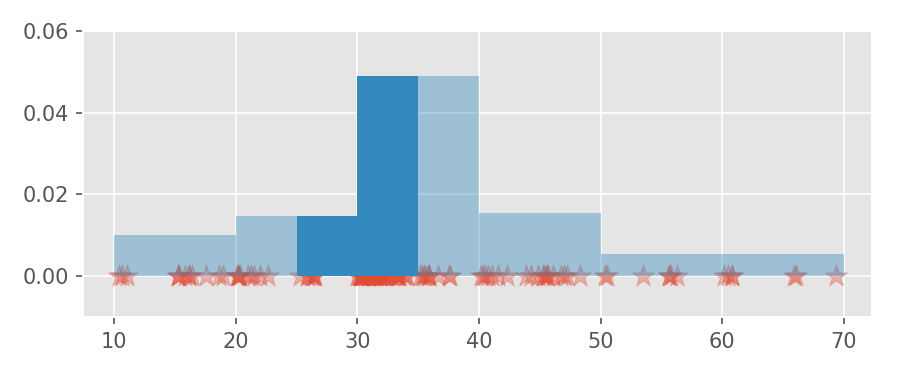
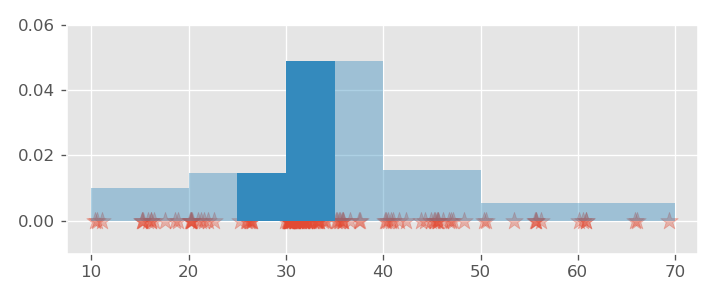
More corrections

diff --git a/static/histograms-and-kdes/meditation.py b/static/histograms-and-kdes/meditation.py
@@ -8,6 +8,8 @@ import os
 import pathlib
 
 plt.style.use('ggplot')
+DPI = 120
+FIGURE_SIZE = (6.0, 2.5)
 
 
 def to_abs(file_name: str):
@@ -24,10 +26,9 @@ def get_histogram_data(data: Sequence, interval_len: int):
 
 def histograms(df: pandas.DataFrame):
     data = df.values.reshape((-1, )).tolist()
-    fs = (6, 2.5)
 
-    df.plot.area(figsize=fs, alpha=0.7)
-    plt.savefig(to_abs('meditation.png'))
+    df.plot.area(figsize=FIGURE_SIZE, alpha=0.7)
+    plt.savefig(to_abs('meditation.png'), dpi=DPI)
 
     plt.figure(figsize=(6, 1.5))
     plt.scatter(x=df.iloc[:, 0], y=numpy.repeat(0.0, len(df)) , marker='*',
@@ -35,7 +36,7 @@ def histograms(df: pandas.DataFrame):
     ax = plt.gca()
     ax.get_yaxis().set_ticks([])
     plt.tight_layout()
-    plt.savefig(to_abs('x-axis.png'), dpi=150)
+    plt.savefig(to_abs('x-axis.png'), dpi=DPI)
 
     plt.figure(figsize=(6, 1.5))
     plt.scatter(x=df.iloc[:, 0], y=numpy.repeat(0.0, len(df)) , marker='*',
@@ -46,12 +47,12 @@ def histograms(df: pandas.DataFrame):
     ax.add_patch(matplotlib.patches.Rectangle((10.0, 0.0), 10.0, range_count/1290.0, alpha=0.4))
     # ax.get_yaxis().set_ticks([])
     plt.tight_layout()
-    plt.savefig(to_abs('histogram-construction-a.png'), dpi=150)
+    plt.savefig(to_abs('histogram-construction-a.png'), dpi=DPI)
 
     interval_len = 10.0
     histogram_data = get_histogram_data(data, interval_len)
 
-    plt.figure(figsize=fs)
+    plt.figure(figsize=FIGURE_SIZE)
     plt.scatter(x=df.iloc[:, 0], y=numpy.repeat(0.0, len(df)), marker='*',
                 alpha=0.35, s=matplotlib.rcParams['lines.markersize'] * 20)
     plt.ylim((-0.01, 0.06))
@@ -59,11 +60,11 @@ def histograms(df: pandas.DataFrame):
     for x0, h in histogram_data.items():
         ax.add_patch(matplotlib.patches.Rectangle((x0, 0.0), interval_len, h, alpha=0.4))
     plt.tight_layout()
-    plt.savefig(to_abs('histogram-construction-b.png'), dpi=150)
+    plt.savefig(to_abs('histogram-construction-b.png'), dpi=DPI)
 
     ax.add_patch(matplotlib.patches.Rectangle((25.0, 0.0), 10.0, histogram_data[20], alpha=1.0))
     ax.add_patch(matplotlib.patches.Rectangle((30.0, 0.0), 5.0, histogram_data[30], alpha=1.0))
-    plt.savefig(to_abs('histogram-construction-c.png'), dpi=150)
+    plt.savefig(to_abs('histogram-construction-c.png'), dpi=DPI)
 
     print(5.0 * (histogram_data[20] + histogram_data[30]))
     print(len(list(x for x in data if 50.0 <= x))/len(data))
@@ -71,7 +72,7 @@ def histograms(df: pandas.DataFrame):
     interval_len = 1.0
     histogram_data = get_histogram_data(data, interval_len)
 
-    plt.figure(figsize=fs)
+    plt.figure(figsize=FIGURE_SIZE)
     plt.scatter(x=df.iloc[:, 0], y=numpy.repeat(0.0, len(df)), marker='*',
                 alpha=0.35, s=matplotlib.rcParams['lines.markersize'] * 5)
     plt.ylim((-0.01, 0.2))
@@ -79,7 +80,7 @@ def histograms(df: pandas.DataFrame):
     for x0, h in histogram_data.items():
         ax.add_patch(matplotlib.patches.Rectangle((x0, 0.0), interval_len, h, alpha=0.4))
     plt.tight_layout()
-    plt.savefig(to_abs('histogram-construction-d.png'), dpi=150)
+    plt.savefig(to_abs('histogram-construction-d.png'), dpi=DPI)
 
     plt.close('all')
 
@@ -102,45 +103,44 @@ def kde(x: numpy.ndarray, data, h: float = 1.0, kernel_func = epanechnikov_kerne
 def kdes(df: pandas.DataFrame):
     data = df.values.reshape((-1, )).tolist()
     bandwidth = 1.06*df.std().values[0]/numpy.power(len(df), 1.0/5.0)
-    fs = (6, 2)
 
     x = numpy.arange(-1.5, 1.5, 0.01)
-    fig, ax = plt.subplots(1, 1, figsize=fs)
+    fig, ax = plt.subplots(1, 1, figsize=FIGURE_SIZE)
     ax.fill_between(x, 0.0, epanechnikov_kernel(x), alpha=0.4, facecolor='r')
-    plt.savefig(to_abs('epanechnikov_kernel_a.png'))
+    plt.savefig(to_abs('epanechnikov_kernel_a.png'), dpi=DPI)
 
-    fig, ax = plt.subplots(1, 1, figsize=fs)
+    fig, ax = plt.subplots(1, 1, figsize=FIGURE_SIZE)
     ax.fill_between(x, 0.0, box_kernel(x), alpha=0.4, facecolor='r')
     plt.savefig(to_abs('box_kernel.png'))
 
     x = numpy.arange(-0.5, 5.0, 0.01)
-    fig, ax = plt.subplots(1, 1, figsize=fs)
+    fig, ax = plt.subplots(1, 1, figsize=FIGURE_SIZE)
     ax.fill_between(x, 0.0, epanechnikov_kernel(x - 1.0), alpha=0.4, facecolor='r')
     ax.fill_between(x, 0.0, epanechnikov_kernel(x - 2.0), alpha=0.4, facecolor='r')
-    plt.savefig(to_abs('epanechnikov_kernel_b.png'))
+    plt.savefig(to_abs('epanechnikov_kernel_b.png'), dpi=DPI)
 
     x = numpy.arange(-3.5, 3.5, 0.01)
-    fig, ax = plt.subplots(1, 1, figsize=fs)
+    fig, ax = plt.subplots(1, 1, figsize=FIGURE_SIZE)
     ax.fill_between(x, 0.0, epanechnikov_kernel(x), alpha=0.4, facecolor='r')
     ax.fill_between(x, 0.0, epanechnikov_kernel(x, 2.0), alpha=0.4, facecolor='r')
     ax.fill_between(x, 0.0, epanechnikov_kernel(x, 3.0), alpha=0.4, facecolor='r')
-    plt.savefig(to_abs('epanechnikov_kernel_c.png'))
+    plt.savefig(to_abs('epanechnikov_kernel_c.png'), dpi=DPI)
 
     x0 = 50.389
     x = numpy.arange(48.0, 53.0, 0.01)
-    fig, ax = plt.subplots(1, 1, figsize=fs)
+    fig, ax = plt.subplots(1, 1, figsize=FIGURE_SIZE)
     ax.fill_between(x, 0.0, epanechnikov_kernel(x - x0), alpha=0.5, facecolor='r')
-    plt.savefig(to_abs('kde_a.png'))
+    plt.savefig(to_abs('kde_a.png'), dpi=DPI)
 
     x = numpy.arange(0.0, 80.0, 0.01)
-    fig, ax = plt.subplots(1, 1, figsize=fs)
+    fig, ax = plt.subplots(1, 1, figsize=FIGURE_SIZE)
     ax.fill_between(x, 0.0, kde(x, data, bandwidth), alpha=0.5, facecolor='r')
-    plt.savefig(to_abs('kde_b.png'))
+    plt.savefig(to_abs('kde_b.png'), dpi=DPI)
 
     x = numpy.arange(0.0, 80.0, 0.01)
-    fig, ax = plt.subplots(1, 1, figsize=fs)
+    fig, ax = plt.subplots(1, 1, figsize=FIGURE_SIZE)
     ax.fill_between(x, 0.0, kde(x, data, bandwidth, box_kernel), alpha=0.5, facecolor='r')
-    plt.savefig(to_abs('kde_c.png'))
+    plt.savefig(to_abs('kde_c.png'), dpi=DPI)
 
 if __name__ == '__main__':
     df = pandas.read_csv(to_abs('meditation.csv'), header=0)

diff --git a/content/page/histograms-and-kdes.md b/content/page/histograms-and-kdes.md
@@ -17,7 +17,7 @@ useful to draw insights from the data.
 To illustrate the concepts, I will use a small data set I collected over 
 last few months. Almost two yeast ago I started meditating regularly, and,
 at some point, I added the daily meditation session duration to the list
-of data I collect.   
+of observations I collect.   
 
 {{< figure src="/histograms-and-kdes/meditation.png" >}}
 
@@ -32,13 +32,13 @@ the session durations in minutes.
 I would like to know more about the distribution of this data. For example, how
 likely is it, for a randomly chosen session to last between 25 and 35 minutes?
 
-For starters, I can just sort the data points and plot the values.
+For starters, we can just sort the data points and plot the values.
 
 {{< figure src="/histograms-and-kdes/x-axis.png" >}}
 
 The problem with this visualization is that many values are very close and
 plotted on top of each other: There is no way to tell how many 30 minute sessions
-do I have in the data set. An idea, that leads to the construction of 
+do we have in the data set. An idea, that leads to the construction of 
 a histogram, is to use the vertical dimension of the plot to distinguish between
 regions with different data density. 
 
@@ -46,7 +46,7 @@ Let's divide the data range into intervals:
 
     [10, 20), [20, 30), [30, 40), [40, 50), [50, 60), [60, 70)
 
-For each data point in the first interval `[10, 20)` I put a rectangle
+For each data point in the first interval `[10, 20)` we put a rectangle
 with area `1/129` (approx. `0.007`) and width 10 on the interval `[10, 20)`. 
 It's like stacking Jenga bricks. Since we have 13 data points in the 
 interval `[10, 20)` the 13 stacked rectangles have the height of approx.
@@ -59,11 +59,11 @@ Let's repeat this for all the remaining intervals.
 {{< figure src="/histograms-and-kdes/histogram-construction-b.png" >}}
 
 Since the total area of all the rectangles is one (we have 129 data points),
-the upper boundary the stacked rectanges is a probability density function.
-Densities are handy because they can be used to calculate probabilities.  For
-example, the probability that a randomly chosen session will last between 25
-and 35 minutes is the area between the density function (graph) and the x-axis
-in the interval `[25, 35]`.
+the curve marking the upper boundary the stacked rectangles is a
+probability density function.  Densities are handy because they can be used to
+calculate probabilities.  For example, the probability that a randomly chosen
+session will last between 25 and 35 minutes is the area between the density
+function (graph) and the x-axis in the interval `[25, 35]`.
 
 {{< figure src="/histograms-and-kdes/histogram-construction-c.png" >}}
 
@@ -79,11 +79,11 @@ For example, from the histogram plot we can infer that `[50, 60)` and
 of a session duration between 50 and 70 minutes equals approximately
 `20*0.005 = 0.1`. The exact calculation yields the probability of `0.1085`.
 
-#### Choice of the interval subdivisions
+#### Choice of the interval lengths
 
-The choice of the intervals (or "bins") is arbitrary. We could also partition
+The choice of the intervals (aka "bins") is arbitrary. We could also partition
 the data range into intervals with length 1, or, use intervals with varying
-length (this is uncommon). Using a small interval length makes the histogram
+length (this is not so common). Using a small interval length makes the histogram
 look more wiggly.
 
 {{< figure src="/histograms-and-kdes/histogram-construction-d.png" >}}
@@ -94,14 +94,14 @@ eye by optimizing some score.
 
 #### Kernel Density Estimators
 
-However we choose the subdivision interval length, a histogram will always look
+However we choose the interval length, a histogram will always look
 more or less wiggly, because it is a stack of rectangles (think Jenga bricks).
 
 Sometimes, we are interested in calculating a smooth estimate of the density. For
 that we can modify our method slightly. The histogram algorithm maps each data
 point to a rectangle with a fixed area and places that rectangle "near" that
-data point. What if instead using rectangles, we could put a "pile of sand"
-on each data point and calculate how this sand stacks.
+data point. What if, instead using rectangles, we could put a "pile of sand"
+on each data point and see how this sand stacks.
 
 For example, the first observation in the data set is `50.389`. Let's put
 a nice pile of sand on it:
@@ -113,10 +113,10 @@ the Epanechnikov kernel.
 
 $$K(x) = \frac{3}{4}(1 - x^2),\text{ for } |x| < 1$$
 
-The Epanechnikov kernel is a probability density function, which means, it is
-positive or equal zero and the area under its graph is equal to one. The function $$K$$ is
-centered at zero, but we can move it around by subtracting a constant from its
-argument $$x$$. 
+The Epanechnikov kernel is a _probability density function_, which means that,
+it is positive or equal zero and the area under its graph is equal to one. The
+function $$K$$ is centered at zero, but we can move it around by subtracting a
+constant from its argument $$x$$. 
 
 {{< figure src="/histograms-and-kdes/epanechnikov_kernel_b.png" >}}
 
@@ -136,7 +136,7 @@ The parameter $$h$$ is often called the _bandwidth_.
 The above plot shows the graphs of $$K_1$$, $$K_2$$, and $$K_3.$$ Higher values
 of $$h$$ flatten the function graph ($$h$$ controls "inverse stickiness"), and
 so $$h$$ corresponds to the interval width parameter in the histogram
-algorithm. The function $$K_h$$, for any $$h>0$$, is still a probability
+algorithm. The function $$K_h$$, for any $$h>0$$, is again a probability
 density -- this is a consequence of the substitution rule of Calculus.
 
 Let's generalize the histogram algorithm using the kernel function $$K_h$$. For
@@ -147,7 +147,7 @@ $$x_1,...,x_{129},$$
 
 we construct the function
 
-$$f: x\mapsto \frac{1}{nh}K\left(\frac{x - x_1}{h}\right) +..+ \frac{1}{nh}K\left(\frac{x - x_{129}}{h}\right).$$
+$$f: x\mapsto \frac{1}{nh}K\left(\frac{x - x_1}{h}\right) +...+ \frac{1}{nh}K\left(\frac{x - x_{129}}{h}\right).$$
 
 Note that each sand pile 
 
@@ -159,7 +159,7 @@ density function (the area under it's graph equals one). Let's have a look at it
 
 {{< figure src="/histograms-and-kdes/kde_b.png" >}}
 
-Note that this graph looks similar to the histogram plots constructed earlier.
+Note that this graph looks like a smooth version of the histogram plots constructed earlier.
 
 The function $$f$$ is called the *Kernel Density Estimator* (KDE). Estimator is
 just a fancy word for a guess: We are trying to guess the density function $$f$$ that
@@ -171,21 +171,23 @@ curve](https://en.wikipedia.org/wiki/Gaussian_function) (the density of the
 Standard Normal distribution). In fact, every probability density function can
 be play the role of a kernel to construct a kernel density estimator. The makes
 KDEs very flexible. For example, let's replace the Epanechnikov kernel with the
-following "box kernel"
+following "box kernel":
 
 {{< figure src="/histograms-and-kdes/box_kernel.png" >}}
 
-to construct another KDE for the meditation data.
+A KDE for the meditation data using this box kernel is depicted in the following plot.
 
 {{< figure src="/histograms-and-kdes/kde_c.png" >}}
 
 ## Closing remarks
 
 In this blog post we learned about histograms and kernel density estimators. Both
-give us estimates of a unknown density function based on some observations.
+give us estimates of a unknown density function based on observation data.
 
-The algorithms for the construction of histograms and KDEs are very similar, but KDEs
-offer a much greater flexibility because we can not only very the bandwidth but also use
-kernels of different shapes and sizes.
+The algorithms for calculation of histograms and KDEs are very similar. KDEs
+offer a much greater flexibility because we can not only very the bandwidth but
+also use kernels of different shapes and sizes.
 
+The python source code used to generate all the plots in this blog post is available here: 
+[meditation.py](/histograms-and-kdes/meditation.py)
 
